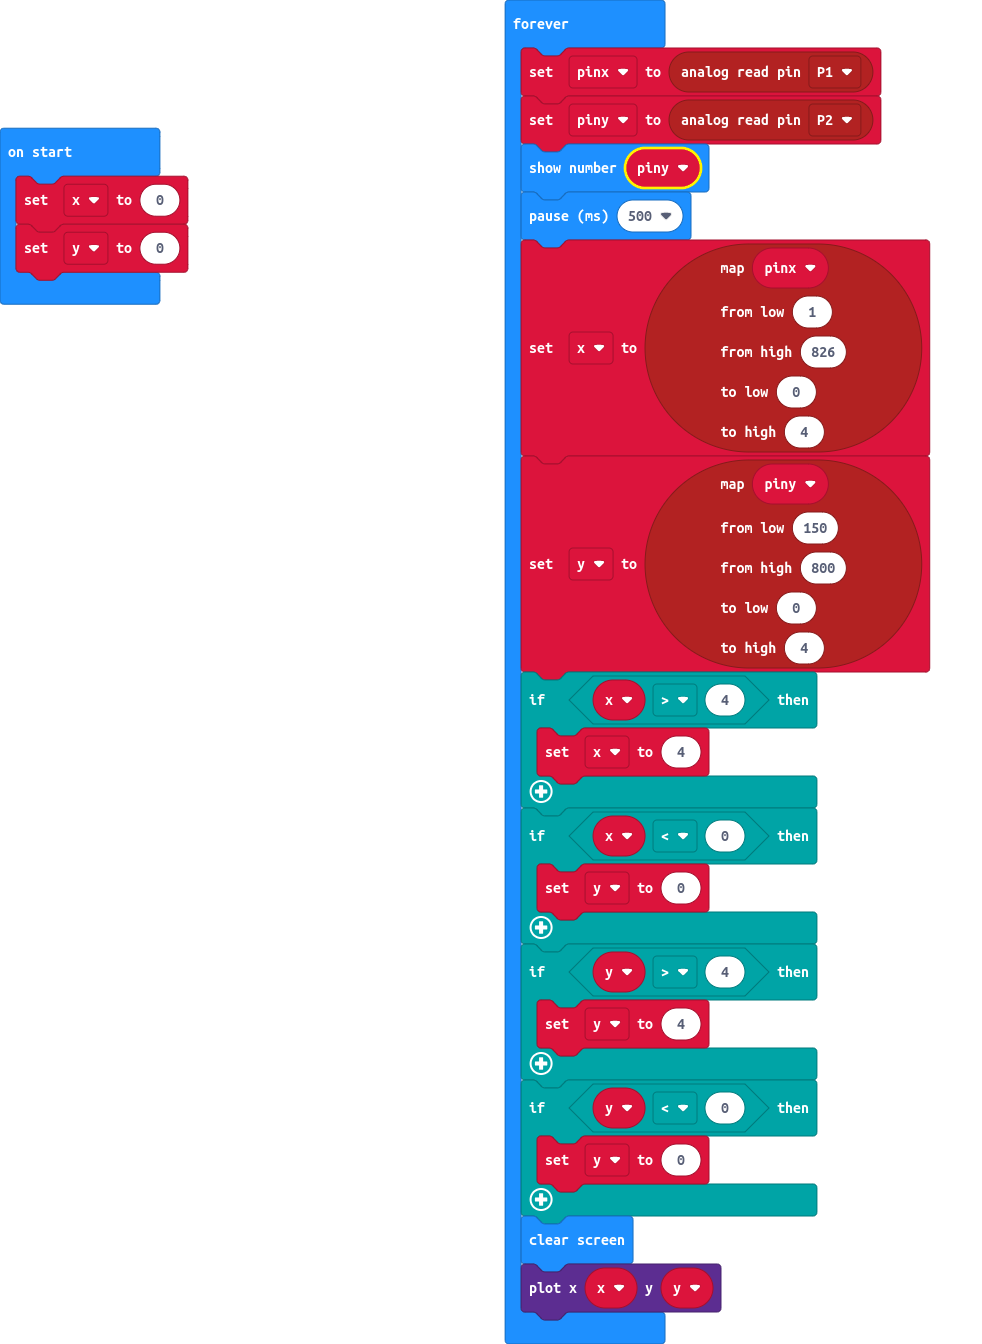
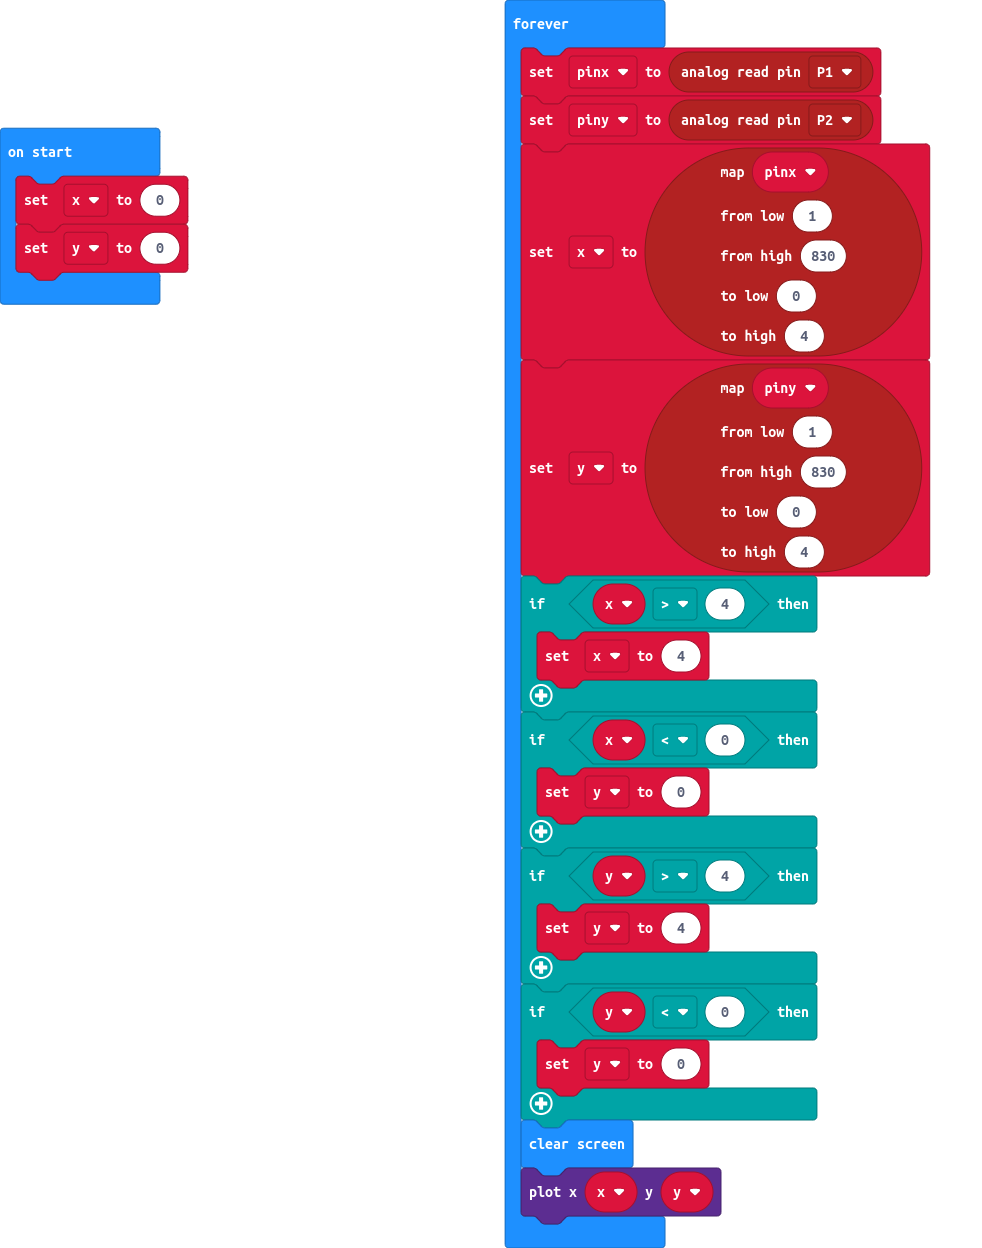
y value set  debug removed

Changed region(s): [[0.5193, 0.0, 0.947, 1.0], [0.0, 0.0938, 0.2138, 0.25]]

diff --git a/main.ts b/main.ts
@@ -5,19 +5,17 @@ let y = 0
 basic.forever(function () {
     pinx = pins.analogReadPin(AnalogPin.P1)
     piny = pins.analogReadPin(AnalogPin.P2)
-    basic.showNumber(piny)
-    basic.pause(500)
     x = pins.map(
     pinx,
     1,
-    826,
+    830,
     0,
     4
     )
     y = pins.map(
     piny,
-    150,
-    800,
+    1,
+    830,
     0,
     4
     )
